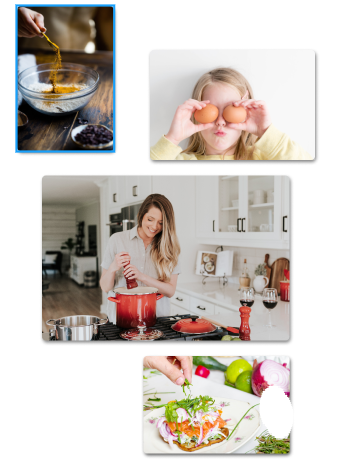
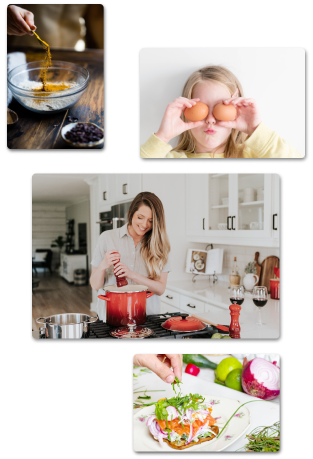
add basic styling for tablet media query

diff --git a/css/index.css b/css/index.css
@@ -142,11 +142,6 @@ body {
   width: 93%;
   margin: 0 auto;
 }
-@media (min-width: 1000px) {
-  body {
-    padding-left: 12%;
-  }
-}
 h1 {
   font-size: 2.8rem;
 }
@@ -204,14 +199,14 @@ header nav .about {
 #landing-header {
   margin: 32px 30px;
 }
-@media (min-width: 1000px) {
+@media (min-width: 800px) {
   #landing-header {
     display: flex;
     flex-direction: row;
     justify-content: space-around;
     align-content: center;
     align-items: center;
-    margin: 3% 7% 3% 0%;
+    margin: 3vh 7vw 3vh 0;
   }
 }
 #landing-header #sign-up {
@@ -222,7 +217,7 @@ header nav .about {
 @media (min-width: 1000px) {
   #landing-header #sign-up {
     padding-bottom: 20%;
-    width: 32vw;
+    width: 42vw;
   }
 }
 #landing-header h1 {
@@ -234,7 +229,6 @@ header nav .about {
   #landing-header h1 {
     font-size: 2.5rem;
     padding-bottom: 3%;
-    width: 100%;
     text-align: left;
   }
 }
@@ -251,11 +245,11 @@ header nav .about {
 #landing-header button:hover {
   background-color: #6b6b6b;
 }
-#landing-header button .desktop {
+#landing-header button .desktopButtonText {
   display: none;
 }
 @media (min-width: 1000px) {
-  #landing-header button .desktop {
+  #landing-header button .desktopButtonText {
     display: inline;
   }
 }
@@ -270,19 +264,23 @@ header nav .about {
 #landing-header p {
   display: none;
 }
-@media (min-width: 1000px) {
+@media (min-width: 800px) {
   #landing-header p {
     display: block;
     text-align: center;
     font-size: 2rem;
-    text-align: left;
     margin-top: 2%;
+  }
+}
+@media (min-width: 1000px) {
+  #landing-header p {
+    text-align: left;
   }
 }
 #landing-header img {
   display: none;
 }
-@media (min-width: 1000px) {
+@media (min-width: 800px) {
   #landing-header img {
     display: block;
     width: 30vw;

diff --git a/less/landing-page.less b/less/landing-page.less
@@ -2,13 +2,13 @@
 
 #landing-header {
   margin: 32px 30px;
-  @media @desktop{
+  @media @tablet{
     display: flex;
     flex-direction: row;
     justify-content: space-around;
     align-content: center;
     align-items: center;
-    margin: 3% 7% 3% 0%;
+    margin: 3vh 7vw 3vh 0;
   }
 
   #sign-up {
@@ -17,7 +17,7 @@
     align-items: center;
     @media @desktop{
       padding-bottom: 20%;
-      width: 32vw;
+      width: 42vw;
     }
   }
 
@@ -28,7 +28,6 @@
     @media @desktop{
       font-size: 2.5rem;
       padding-bottom: 3%;
-      width: 100%;
       text-align: left;
     }
   }
@@ -38,7 +37,7 @@
     margin: 33px auto 23px auto;
     padding: 2px 30px;
     font-size: 1.8rem;
-    .desktop{
+    .desktopButtonText{
       display: none;
       @media @desktop{
         display: inline;
@@ -55,18 +54,20 @@
 
   p{
     display: none;
-    @media @desktop{
+    @media @tablet{
       display: block;
       text-align: center;
       font-size: 2rem;
-      text-align: left;
       margin-top: 2%;
+    }
+    @media @desktop{
+      text-align: left;
     }
   }
 
   img {
     display: none;
-    @media @desktop{
+    @media @tablet{
       display: block;
       width: 30vw;
     }

diff --git a/index.html b/index.html
@@ -35,7 +35,9 @@
         <div id="sign-up">
           <h1>Give Your Recipe Card an Upgrade!</h1>
           <p>Stop texting that recipe card. Start sharing easily with <em>Family Recipes</em></p>
-          <button type="button"><span class='mobile'>Sign Up </span><span class='desktop'> For Free</span></button>
+          <button type="button">
+            <span class='mobile'>Sign Up </span>
+            <span class='desktopButtonText'> For Free</span></button>
         </div>
 
         <div>

diff --git a/less/global.less b/less/global.less
@@ -11,10 +11,7 @@ html {
 body {
   width: 93%;
   margin: 0 auto;
-  @media @desktop{
-    padding-left: 12%;
   }
-}
 
 h1 {
   font-size: 2.8rem;
